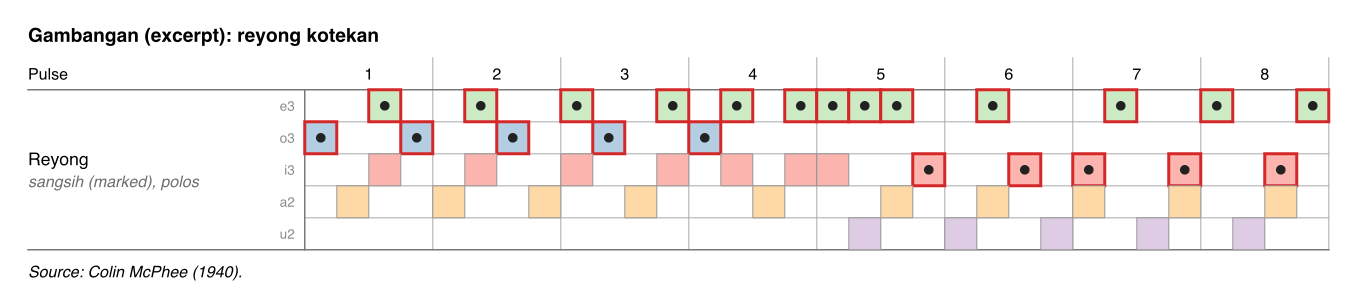
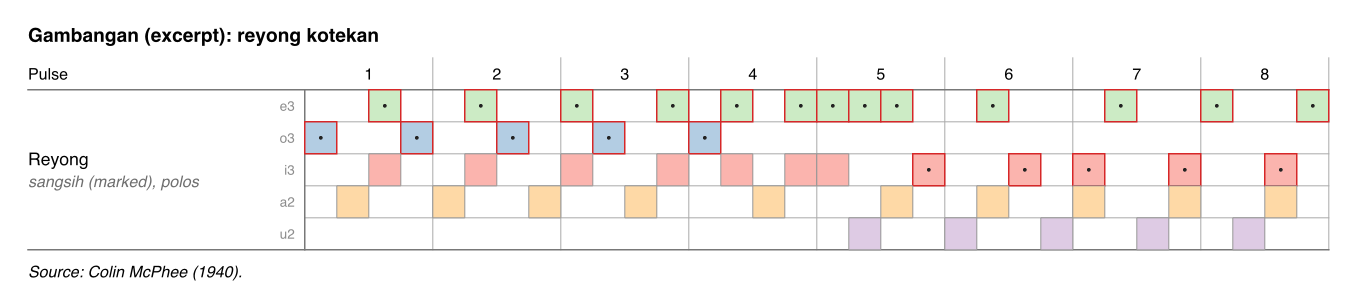
Subtler part marks by default: a dot of 0.12, a border of 0.8pt
The defaults of :part-marker were 0.3 and 1.5pt, chosen by eye; on
Gambangan's marked score they hid too much. 01, 05 and the manual give
the new defaults.

diff --git a/doc/design/01-notation.md b/doc/design/01-notation.md
@@ -735,10 +735,10 @@ pitched and stroke groups alike:
 | Key | Value | Default |
 |---|---|---|
 | `:symbol` | `none`, `dot`, `ring`, `cross`: small, centred in the note's cell | `none` |
-| `:symbol-size` | a fraction of the cell's narrower side, greater than 0 and at most 1, e.g. `0.3` | `0.3`, chosen by eye |
+| `:symbol-size` | a fraction of the cell's narrower side, greater than 0 and at most 1, e.g. `0.3` | `0.12`, chosen by eye |
 | `:symbol-color` | `"#rrggbb"` | near-black, as note labels |
 | `:border` | `"#rrggbb"`: a border of that colour, thicker than the normal one | none (the normal border) |
-| `:border-width` | a LENGTH, e.g. `"1pt"` | `"1.5pt"`, thicker than the normal border, chosen by eye |
+| `:border-width` | a LENGTH, e.g. `"1pt"` | `"0.8pt"`, a little thicker than the normal border, chosen by eye |
 
 - A part with no entry is drawn as without `:part-marker`. Colour
   stays the pitch colour.
@@ -832,8 +832,9 @@ Later extensions of the notation are listed in the
 ## Open questions
 
 None for iteration 5: its design ideas' questions were settled before
-promotion; the default `:symbol-size` (0.3) and `:border-width`
-(1.5pt) of `:part-marker` were chosen by eye in `feat/collapsed-markers`.
+promotion; the default `:symbol-size` and `:border-width` of
+`:part-marker` were chosen by eye in `feat/collapsed-markers` (0.3 and
+1.5pt) and made subtler in `feat/gallery` (0.12 and 0.8pt).
 None for iteration 3: its design ideas' questions were settled before
 promotion. None for iteration 2. The three questions of v1 are answered: parts
 have equal length, and only colotomy parts shorter than their cycle

diff --git a/doc/design/05-typst-backend.md b/doc/design/05-typst-backend.md
@@ -405,9 +405,10 @@ version 3's drawing, which follows:
   when `border` isn't `null`, a border of that colour and
   `border_width` in place of the grey one. A note's text and symbol
   are both drawn, centred, even when they overlap. The defaults, chosen
-  by eye on Jaya Semara's kotekan, are a size of 0.3 and a width of
-  1.5pt: thicker than the grey border but small enough not to hide a
-  gangsa note's fill. **Implemented** since `feat/collapsed-markers`, on
+  by eye to be subtle (on Gambangan's kotekan, `feat/gallery`; 0.3 and
+  1.5pt before), are a size of 0.12 and a width of 0.8pt: a little
+  thicker than the grey border, so the mark is seen without hiding the
+  note's fill. **Implemented** since `feat/collapsed-markers`, on
   every piece of a cut note, and never on a `"-"` of `:holds dash`. A note
   drawn as text alone (`fill` `null`) gets the symbol but no border.
 - `lanes`, `lane` and `lane_width` are read as `rows`, `row` and

diff --git a/doc/manual/src/scores.md b/doc/manual/src/scores.md
@@ -115,10 +115,10 @@ of the group and gives it a symbol, a border, or both:
 | Key | What it does |
 |---|---|
 | `:symbol dot` / `ring` / `cross` | A small mark in the middle of each of the part's notes. `none` (the default) draws none. |
-| `:symbol-size 0.3` | The mark's size, as a part of the square (more than 0, at most 1). 0.3 unless you say. |
+| `:symbol-size 0.2` | The mark's size, as a part of the square (more than 0, at most 1). 0.12 unless you say. |
 | `:symbol-color "#222222"` | The mark's colour: near-black unless you say. |
 | `:border "#d62728"` | A border of this colour around each of the part's notes, in place of the thin grey one. |
-| `:border-width "1.5pt"` | How thick the border is: 1.5pt unless you say. |
+| `:border-width "1pt"` | How thick the border is: 0.8pt unless you say. |
 
 A part with no entry is drawn as usual. A mark and a note's label are
 both drawn in the middle of the square, even where they overlap, so
